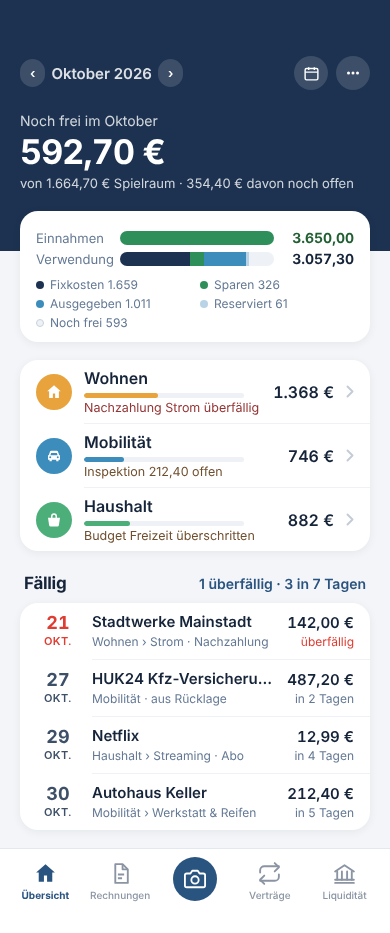
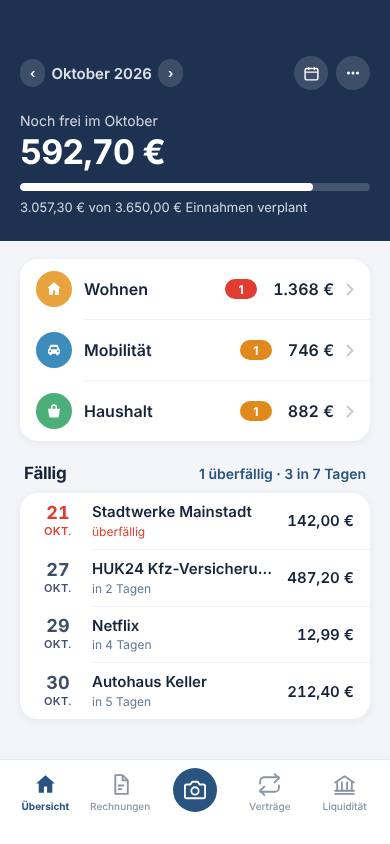
Konzept 2.0.0: Startseite minimal – eine Zahl, ein Balken, Bereiche mit Zähler-Punkt
Statustexte unter den Bereichen durch Zähler ersetzt (rot = überfällig, bernstein = offen/überschritten),
Balkenpaar und Legende durch einen Balken verplant/frei, Fällig-Zeilen ohne Kategorie-Untertitel.

Claude-Session: https://claude.ai/code/session_0112K5J9EfnvdznECFdoQGko

diff --git a/docs/konzept-2.0.0/design/Main.dc.html b/docs/konzept-2.0.0/design/Main.dc.html
@@ -42,6 +42,7 @@ body{margin:0}
 .lg i{width:8px;height:8px;border-radius:4px;flex:none}
 .sh{height:5px;border-radius:3px;background:#EEF1F5;overflow:hidden;margin-top:5px;max-width:160px}
 .sh i{display:block;height:5px;border-radius:3px}
+.bdg{min-width:20px;height:20px;padding:0 6px;border-radius:10px;color:#FFFFFF;font-size:12px;font-weight:700;display:inline-flex;align-items:center;justify-content:center;flex:none;margin-right:4px}
 .row.dr{padding:10px 16px}
 .row.dr .vcol{max-width:88px}
 .row.dr:last-of-type+.sep{display:none}
@@ -129,7 +130,7 @@ a{color:#2A5480}
 </helmet>
 <div class="root">
 <div class="scroll">
-  <div class="hdr" style="padding: 56px 20px 60px">
+  <div class="hdr" style="padding: 56px 20px 26px">
     <div style="display: flex; align-items: center; justify-content: space-between">
       <div style="display: flex; gap: 6px; align-items: center">
         <button class="chip" style="height: 28px; padding: 0 10px" onClick="{{prevMonth}}" aria-label="Vormonat">‹</button>
@@ -143,30 +144,19 @@ a{color:#2A5480}
     </div>
     <p style="margin: 22px 0 0; font-size: 14px; opacity: .8">{{sparLabel}}</p>
     <p class="big" style="margin-top: 6px">{{spar}} €</p>
-    <p class="sub">{{sparSub}}</p>
-  </div>
-
-  <div style="padding: 0 20px; margin-top: -40px">
-    <a href="Monatsrechnung.dc.html" class="card" style="display: block; padding: 14px 16px 12px; text-decoration: none; color: inherit">
-      <div class="mb"><p class="ml">Einnahmen</p><div class="mt"><i style="width: 100%; background: #2F8F5B"></i></div><p class="mv" style="color: #215F33">{{k.ein}}</p></div>
-      <div class="mb"><p class="ml">Verwendung</p><div class="mt"><i style="{{bar.fix}}"></i><i style="{{bar.res}}"></i><i style="{{bar.aus}}"></i><i style="{{bar.bud}}"></i></div><p class="mv">{{k.out}}</p></div>
-      <div class="lg">
-        <span><i style="background: #1C3250"></i>Fixkosten {{k.fix}}</span>
-        <span><i style="background: #2F8F5B"></i>Sparen {{k.res}}</span>
-        <span><i style="background: #3C8DBC"></i>Ausgegeben {{k.aus}}</span>
-        <span><i style="background: #B9D3E6"></i>Reserviert {{k.bud}}</span>
-        <span><i style="background: #EEF1F5; border: 1px solid #C9D3DF; box-sizing: border-box"></i>Noch frei {{k.spar}}</span>
-      </div>
+    <a href="Monatsrechnung.dc.html" style="display: block; text-decoration: none; color: inherit; margin-top: 14px">
+      <div style="height: 8px; border-radius: 4px; background: rgba(255,255,255,.18); overflow: hidden"><i style="{{usedSt}}"></i></div>
+      <p class="sub" style="margin-top: 8px">{{sparSub}}</p>
     </a>
   </div>
 
   <div style="padding: 18px 20px 0 20px">
     <div class="card">
-      <a class="row" href="Wohnen.dc.html" style="min-height: 60px; padding: 8px 16px"><span class="c" style="background: #E8A33D; width: 36px; height: 36px; border-radius: 18px"><svg aria-hidden="true" width="18" height="18" viewBox="0 0 24 24" fill="currentColor"><path d="M12 3l9 8h-2.5v9h-5v-6h-3v6h-5v-9H3z"/></svg></span><div class="mid"><p class="n" style="font-size: 16px">Wohnen</p><div class="sh"><i style="{{a.wb}}"></i></div><sc-if value="{{a.ws}}" hint-placeholder-val="{{false}}"><p class="s" style="font-size: 12.5px; color: #943333">{{a.ws}}</p></sc-if></div><p class="v" style="font-size: 16px">{{a.w}} €</p><svg class="chev" aria-hidden="true" viewBox="0 0 8 13" fill="none" stroke="#C4CCD6" stroke-width="2" stroke-linecap="round" stroke-linejoin="round"><path d="M1.5 1.5l5 5-5 5"/></svg></a>
+      <a class="row" href="Wohnen.dc.html" style="min-height: 60px; padding: 8px 16px"><span class="c" style="background: #E8A33D; width: 36px; height: 36px; border-radius: 18px"><svg aria-hidden="true" width="18" height="18" viewBox="0 0 24 24" fill="currentColor"><path d="M12 3l9 8h-2.5v9h-5v-6h-3v6h-5v-9H3z"/></svg></span><div class="mid"><p class="n" style="font-size: 16px">Wohnen</p></div><sc-if value="{{a.wn}}" hint-placeholder-val="{{false}}"><span class="bdg" style="{{a.wbs}}">{{a.wn}}</span></sc-if><p class="v" style="font-size: 16px">{{a.w}} €</p><svg class="chev" aria-hidden="true" viewBox="0 0 8 13" fill="none" stroke="#C4CCD6" stroke-width="2" stroke-linecap="round" stroke-linejoin="round"><path d="M1.5 1.5l5 5-5 5"/></svg></a>
       <div class="sep" style="margin-left: 64px"></div>
-      <a class="row" href="Akte.dc.html" style="min-height: 60px; padding: 8px 16px"><span class="c" style="background: #3C8DBC; width: 36px; height: 36px; border-radius: 18px"><svg aria-hidden="true" width="18" height="18" viewBox="0 0 24 24" fill="currentColor"><path d="M5 11l1.5-4.5A2 2 0 0 1 8.4 5h7.2a2 2 0 0 1 1.9 1.5L19 11h1v6h-2v2h-3v-2H9v2H6v-2H4v-6zm2.2 0h9.6l-1-3H8.2zM7 15a1.3 1.3 0 1 0 0-2.6A1.3 1.3 0 0 0 7 15zm10 0a1.3 1.3 0 1 0 0-2.6 1.3 1.3 0 0 0 0 2.6z"/></svg></span><div class="mid"><p class="n" style="font-size: 16px">Mobilität</p><div class="sh"><i style="{{a.mb}}"></i></div><sc-if value="{{a.ms}}" hint-placeholder-val="{{false}}"><p class="s" style="font-size: 12.5px; color: #704F2E">{{a.ms}}</p></sc-if></div><p class="v" style="font-size: 16px">{{a.mo}} €</p><svg class="chev" aria-hidden="true" viewBox="0 0 8 13" fill="none" stroke="#C4CCD6" stroke-width="2" stroke-linecap="round" stroke-linejoin="round"><path d="M1.5 1.5l5 5-5 5"/></svg></a>
+      <a class="row" href="Akte.dc.html" style="min-height: 60px; padding: 8px 16px"><span class="c" style="background: #3C8DBC; width: 36px; height: 36px; border-radius: 18px"><svg aria-hidden="true" width="18" height="18" viewBox="0 0 24 24" fill="currentColor"><path d="M5 11l1.5-4.5A2 2 0 0 1 8.4 5h7.2a2 2 0 0 1 1.9 1.5L19 11h1v6h-2v2h-3v-2H9v2H6v-2H4v-6zm2.2 0h9.6l-1-3H8.2zM7 15a1.3 1.3 0 1 0 0-2.6A1.3 1.3 0 0 0 7 15zm10 0a1.3 1.3 0 1 0 0-2.6 1.3 1.3 0 0 0 0 2.6z"/></svg></span><div class="mid"><p class="n" style="font-size: 16px">Mobilität</p></div><sc-if value="{{a.mn}}" hint-placeholder-val="{{false}}"><span class="bdg" style="{{a.mbs}}">{{a.mn}}</span></sc-if><p class="v" style="font-size: 16px">{{a.mo}} €</p><svg class="chev" aria-hidden="true" viewBox="0 0 8 13" fill="none" stroke="#C4CCD6" stroke-width="2" stroke-linecap="round" stroke-linejoin="round"><path d="M1.5 1.5l5 5-5 5"/></svg></a>
       <div class="sep" style="margin-left: 64px"></div>
-      <a class="row" href="Haushalt.dc.html" style="min-height: 60px; padding: 8px 16px"><span class="c" style="background: #4CAF7A; width: 36px; height: 36px; border-radius: 18px"><svg aria-hidden="true" width="18" height="18" viewBox="0 0 24 24" fill="currentColor"><path d="M4 9h16l-1.5 10a2 2 0 0 1-2 1.7h-9A2 2 0 0 1 5.5 19zM8 9V7a4 4 0 0 1 8 0v2h-2V7a2 2 0 0 0-4 0v2z"/></svg></span><div class="mid"><p class="n" style="font-size: 16px">Haushalt</p><div class="sh"><i style="{{a.hb}}"></i></div><sc-if value="{{a.hs}}" hint-placeholder-val="{{false}}"><p class="s" style="font-size: 12.5px; color: #704F2E">{{a.hs}}</p></sc-if></div><p class="v" style="font-size: 16px">{{a.h}} €</p><svg class="chev" aria-hidden="true" viewBox="0 0 8 13" fill="none" stroke="#C4CCD6" stroke-width="2" stroke-linecap="round" stroke-linejoin="round"><path d="M1.5 1.5l5 5-5 5"/></svg></a>
+      <a class="row" href="Haushalt.dc.html" style="min-height: 60px; padding: 8px 16px"><span class="c" style="background: #4CAF7A; width: 36px; height: 36px; border-radius: 18px"><svg aria-hidden="true" width="18" height="18" viewBox="0 0 24 24" fill="currentColor"><path d="M4 9h16l-1.5 10a2 2 0 0 1-2 1.7h-9A2 2 0 0 1 5.5 19zM8 9V7a4 4 0 0 1 8 0v2h-2V7a2 2 0 0 0-4 0v2z"/></svg></span><div class="mid"><p class="n" style="font-size: 16px">Haushalt</p></div><sc-if value="{{a.hn}}" hint-placeholder-val="{{false}}"><span class="bdg" style="{{a.hbs}}">{{a.hn}}</span></sc-if><p class="v" style="font-size: 16px">{{a.h}} €</p><svg class="chev" aria-hidden="true" viewBox="0 0 8 13" fill="none" stroke="#C4CCD6" stroke-width="2" stroke-linecap="round" stroke-linejoin="round"><path d="M1.5 1.5l5 5-5 5"/></svg></a>
     </div>
   </div>
 
@@ -177,7 +167,7 @@ a{color:#2A5480}
     </div>
     <div class="card">
       <sc-for list="{{due}}" as="d" hint-placeholder-count="3">
-        <a class="row dr" href="{{d.href}}"><div class="dd" style="{{d.dst}}"><p class="d1">{{d.day}}</p><p class="d2">{{d.mon}}</p></div><div class="mid"><p class="n">{{d.name}}</p><p class="s">{{d.sub2}}</p></div><div class="vcol"><p class="v">{{d.amount}} €</p><p class="s" style="{{d.urgst}}">{{d.urg}}</p></div></a>
+        <a class="row dr" href="{{d.href}}"><div class="dd" style="{{d.dst}}"><p class="d1">{{d.day}}</p><p class="d2">{{d.mon}}</p></div><div class="mid"><p class="n">{{d.name}}</p><p class="s" style="{{d.urgst}}">{{d.urg}}</p></div><p class="v">{{d.amount}} €</p></a>
         <div class="sep" style="margin-left: 72px"></div>
       </sc-for>
       <sc-if value="{{noDue}}" hint-placeholder-val="{{false}}"><div class="row"><p class="s">Nichts offen – der Monat ist abgeschlossen.</p></div></sc-if>
@@ -228,14 +218,13 @@ class Component extends DCLogic {
     var months = ['Oktober 2026', 'September 2026', 'August 2026'];
     // Beispielmonat Oktober; Vormonate als Vergleich (abgeschlossen: keine offenen Posten)
     var D = [
-      { ein: 3650, fix: 1659.20, bez: 656.20, off: 354.40, bud: 61.40, res: 326.10, w: 1368.18, mo: 746.19, h: 881.53, ws: 'Nachzahlung Strom überfällig', ms: 'Inspektion 212,40 offen', hs: 'Budget Freizeit überschritten' },
-      { ein: 3650, fix: 1659.20, bez: 824.70, off: 0, bud: 0, res: 326.10, w: 1300.00, mo: 640.00, h: 870.00, ws: 'abgeschlossen', ms: 'abgeschlossen', hs: 'abgeschlossen' },
-      { ein: 3701.30, fix: 1659.20, bez: 754.70, off: 0, bud: 0, res: 326.10, w: 1290.00, mo: 590.00, h: 860.00, ws: 'Rückerstattung Strom 51,30', ms: 'abgeschlossen', hs: 'abgeschlossen' }
+      { ein: 3650, fix: 1659.20, bez: 656.20, off: 354.40, bud: 61.40, res: 326.10, w: 1368.18, mo: 746.19, h: 881.53, wn: 1, wred: true, mn: 1, mred: false, hn: 1, hred: false },
+      { ein: 3650, fix: 1659.20, bez: 824.70, off: 0, bud: 0, res: 326.10, w: 1300.00, mo: 640.00, h: 870.00, wn: 0, mn: 0, hn: 0 },
+      { ein: 3701.30, fix: 1659.20, bez: 754.70, off: 0, bud: 0, res: 326.10, w: 1290.00, mo: 590.00, h: 860.00, wn: 0, mn: 0, hn: 0 }
     ];
     var d = D[m], aus = d.bez + d.off, out = d.fix + aus + d.bud + d.res, spar = d.ein - out;
     var pct = function (v) { return Math.round(v / d.ein * 1000) / 10; };
-    var sumA = d.w + d.mo + d.h, share = function (v, c) { return 'width: ' + Math.round(v / sumA * 100) + '%; background: ' + c; };
-    var warn = function (t) { return t === 'abgeschlossen' ? '' : t; };
+    var bdg = function (red) { return red ? 'background: #E03C31' : 'background: #E08A1E'; };
     var dueAll = [
       { name: 'Stadtwerke Mainstadt', amount: eur(142), day: '21', mon: 'Okt.', dst: 'color: #E03C31', sub2: 'Wohnen › Strom · Nachzahlung', urg: 'überfällig', urgst: 'color: #E03C31', href: 'Rechnung.dc.html' },
       { name: 'HUK24 Kfz-Versicherung', amount: eur(487.20), day: '27', mon: 'Okt.', dst: '', sub2: 'Mobilität · aus Rücklage', urg: 'in 2 Tagen', urgst: '', href: 'Vertrag.dc.html' },
@@ -249,10 +238,10 @@ class Component extends DCLogic {
       prevMonth: function () { if (m < months.length - 1) self.setState({ m: m + 1 }); else self.say('Ältere Monate: Mehr › Auswertung'); },
       nextMonth: function () { if (m > 0) self.setState({ m: m - 1 }); else self.say('Oktober ist der laufende Monat'); },
       spar: eur(spar), sparLabel: (m === 0 ? 'Noch frei im ' : 'Überschuss im ') + months[m].split(' ')[0],
-      sparSub: m === 0 ? 'von ' + eur(d.ein - d.fix - d.res) + ' € Spielraum · ' + eur(d.off) + ' € davon noch offen' : 'Monat abgeschlossen · Gespart ' + eur(d.res + spar) + ' € inkl. Rücklagen',
+      sparSub: eur(out) + ' € von ' + eur(d.ein) + ' € Einnahmen verplant', usedSt: 'display: block; height: 8px; width: ' + pct(out) + '%; background: #FFFFFF; border-radius: 4px',
       k: { ein: eur(d.ein), out: eur(out), fix: eur(d.fix, 0), aus: eur(aus, 0), bud: eur(d.bud, 0), res: eur(d.res, 0), spar: eur(spar, 0), offen: eur(d.off) },
       bar: { fix: 'width: ' + pct(d.fix) + '%; background: #1C3250', aus: 'width: ' + pct(aus) + '%; background: #3C8DBC', bud: 'width: ' + pct(d.bud) + '%; background: #B9D3E6', res: 'width: ' + pct(d.res) + '%; background: #2F8F5B' },
-      a: { ws: warn(d.ws), ms: warn(d.ms), hs: warn(d.hs), w: eur(d.w, 0), mo: eur(d.mo, 0), h: eur(d.h, 0), wb: share(d.w, '#E8A33D'), mb: share(d.mo, '#3C8DBC'), hb: share(d.h, '#4CAF7A') },
+      a: { w: eur(d.w, 0), mo: eur(d.mo, 0), h: eur(d.h, 0), wn: d.wn || 0, mn: d.mn || 0, hn: d.hn || 0, wbs: bdg(d.wred), mbs: bdg(d.mred), hbs: bdg(d.hred) },
       sumAreas: eur(d.w + d.mo + d.h),
       due: due, noDue: due.length === 0,
       dueLine: m === 0 ? '1 überfällig · 3 in 7 Tagen' : 'nichts offen'

diff --git a/docs/konzept-2.0.0/design/Akte.dc.html b/docs/konzept-2.0.0/design/Akte.dc.html
@@ -42,6 +42,7 @@ body{margin:0}
 .lg i{width:8px;height:8px;border-radius:4px;flex:none}
 .sh{height:5px;border-radius:3px;background:#EEF1F5;overflow:hidden;margin-top:5px;max-width:160px}
 .sh i{display:block;height:5px;border-radius:3px}
+.bdg{min-width:20px;height:20px;padding:0 6px;border-radius:10px;color:#FFFFFF;font-size:12px;font-weight:700;display:inline-flex;align-items:center;justify-content:center;flex:none;margin-right:4px}
 .row.dr{padding:10px 16px}
 .row.dr .vcol{max-width:88px}
 .row.dr:last-of-type+.sep{display:none}

diff --git a/docs/konzept-2.0.0/design/Auswertung.dc.html b/docs/konzept-2.0.0/design/Auswertung.dc.html
@@ -42,6 +42,7 @@ body{margin:0}
 .lg i{width:8px;height:8px;border-radius:4px;flex:none}
 .sh{height:5px;border-radius:3px;background:#EEF1F5;overflow:hidden;margin-top:5px;max-width:160px}
 .sh i{display:block;height:5px;border-radius:3px}
+.bdg{min-width:20px;height:20px;padding:0 6px;border-radius:10px;color:#FFFFFF;font-size:12px;font-weight:700;display:inline-flex;align-items:center;justify-content:center;flex:none;margin-right:4px}
 .row.dr{padding:10px 16px}
 .row.dr .vcol{max-width:88px}
 .row.dr:last-of-type+.sep{display:none}

diff --git a/docs/konzept-2.0.0/design/Budgets.dc.html b/docs/konzept-2.0.0/design/Budgets.dc.html
@@ -42,6 +42,7 @@ body{margin:0}
 .lg i{width:8px;height:8px;border-radius:4px;flex:none}
 .sh{height:5px;border-radius:3px;background:#EEF1F5;overflow:hidden;margin-top:5px;max-width:160px}
 .sh i{display:block;height:5px;border-radius:3px}
+.bdg{min-width:20px;height:20px;padding:0 6px;border-radius:10px;color:#FFFFFF;font-size:12px;font-weight:700;display:inline-flex;align-items:center;justify-content:center;flex:none;margin-right:4px}
 .row.dr{padding:10px 16px}
 .row.dr .vcol{max-width:88px}
 .row.dr:last-of-type+.sep{display:none}

diff --git a/docs/konzept-2.0.0/design/Dokumente.dc.html b/docs/konzept-2.0.0/design/Dokumente.dc.html
@@ -42,6 +42,7 @@ body{margin:0}
 .lg i{width:8px;height:8px;border-radius:4px;flex:none}
 .sh{height:5px;border-radius:3px;background:#EEF1F5;overflow:hidden;margin-top:5px;max-width:160px}
 .sh i{display:block;height:5px;border-radius:3px}
+.bdg{min-width:20px;height:20px;padding:0 6px;border-radius:10px;color:#FFFFFF;font-size:12px;font-weight:700;display:inline-flex;align-items:center;justify-content:center;flex:none;margin-right:4px}
 .row.dr{padding:10px 16px}
 .row.dr .vcol{max-width:88px}
 .row.dr:last-of-type+.sep{display:none}

diff --git a/docs/konzept-2.0.0/design/Einnahmen.dc.html b/docs/konzept-2.0.0/design/Einnahmen.dc.html
@@ -42,6 +42,7 @@ body{margin:0}
 .lg i{width:8px;height:8px;border-radius:4px;flex:none}
 .sh{height:5px;border-radius:3px;background:#EEF1F5;overflow:hidden;margin-top:5px;max-width:160px}
 .sh i{display:block;height:5px;border-radius:3px}
+.bdg{min-width:20px;height:20px;padding:0 6px;border-radius:10px;color:#FFFFFF;font-size:12px;font-weight:700;display:inline-flex;align-items:center;justify-content:center;flex:none;margin-right:4px}
 .row.dr{padding:10px 16px}
 .row.dr .vcol{max-width:88px}
 .row.dr:last-of-type+.sep{display:none}

diff --git a/docs/konzept-2.0.0/design/Einstellungen.dc.html b/docs/konzept-2.0.0/design/Einstellungen.dc.html
@@ -42,6 +42,7 @@ body{margin:0}
 .lg i{width:8px;height:8px;border-radius:4px;flex:none}
 .sh{height:5px;border-radius:3px;background:#EEF1F5;overflow:hidden;margin-top:5px;max-width:160px}
 .sh i{display:block;height:5px;border-radius:3px}
+.bdg{min-width:20px;height:20px;padding:0 6px;border-radius:10px;color:#FFFFFF;font-size:12px;font-weight:700;display:inline-flex;align-items:center;justify-content:center;flex:none;margin-right:4px}
 .row.dr{padding:10px 16px}
 .row.dr .vcol{max-width:88px}
 .row.dr:last-of-type+.sep{display:none}

diff --git a/docs/konzept-2.0.0/design/Erfassen.dc.html b/docs/konzept-2.0.0/design/Erfassen.dc.html
@@ -42,6 +42,7 @@ body{margin:0}
 .lg i{width:8px;height:8px;border-radius:4px;flex:none}
 .sh{height:5px;border-radius:3px;background:#EEF1F5;overflow:hidden;margin-top:5px;max-width:160px}
 .sh i{display:block;height:5px;border-radius:3px}
+.bdg{min-width:20px;height:20px;padding:0 6px;border-radius:10px;color:#FFFFFF;font-size:12px;font-weight:700;display:inline-flex;align-items:center;justify-content:center;flex:none;margin-right:4px}
 .row.dr{padding:10px 16px}
 .row.dr .vcol{max-width:88px}
 .row.dr:last-of-type+.sep{display:none}

diff --git a/docs/konzept-2.0.0/design/Haushalt.dc.html b/docs/konzept-2.0.0/design/Haushalt.dc.html
@@ -42,6 +42,7 @@ body{margin:0}
 .lg i{width:8px;height:8px;border-radius:4px;flex:none}
 .sh{height:5px;border-radius:3px;background:#EEF1F5;overflow:hidden;margin-top:5px;max-width:160px}
 .sh i{display:block;height:5px;border-radius:3px}
+.bdg{min-width:20px;height:20px;padding:0 6px;border-radius:10px;color:#FFFFFF;font-size:12px;font-weight:700;display:inline-flex;align-items:center;justify-content:center;flex:none;margin-right:4px}
 .row.dr{padding:10px 16px}
 .row.dr .vcol{max-width:88px}
 .row.dr:last-of-type+.sep{display:none}

diff --git a/docs/konzept-2.0.0/design/Kalender.dc.html b/docs/konzept-2.0.0/design/Kalender.dc.html
@@ -42,6 +42,7 @@ body{margin:0}
 .lg i{width:8px;height:8px;border-radius:4px;flex:none}
 .sh{height:5px;border-radius:3px;background:#EEF1F5;overflow:hidden;margin-top:5px;max-width:160px}
 .sh i{display:block;height:5px;border-radius:3px}
+.bdg{min-width:20px;height:20px;padding:0 6px;border-radius:10px;color:#FFFFFF;font-size:12px;font-weight:700;display:inline-flex;align-items:center;justify-content:center;flex:none;margin-right:4px}
 .row.dr{padding:10px 16px}
 .row.dr .vcol{max-width:88px}
 .row.dr:last-of-type+.sep{display:none}

diff --git a/docs/konzept-2.0.0/design/Kasse.dc.html b/docs/konzept-2.0.0/design/Kasse.dc.html
@@ -42,6 +42,7 @@ body{margin:0}
 .lg i{width:8px;height:8px;border-radius:4px;flex:none}
 .sh{height:5px;border-radius:3px;background:#EEF1F5;overflow:hidden;margin-top:5px;max-width:160px}
 .sh i{display:block;height:5px;border-radius:3px}
+.bdg{min-width:20px;height:20px;padding:0 6px;border-radius:10px;color:#FFFFFF;font-size:12px;font-weight:700;display:inline-flex;align-items:center;justify-content:center;flex:none;margin-right:4px}
 .row.dr{padding:10px 16px}
 .row.dr .vcol{max-width:88px}
 .row.dr:last-of-type+.sep{display:none}

diff --git a/docs/konzept-2.0.0/design/Kategorie.dc.html b/docs/konzept-2.0.0/design/Kategorie.dc.html
@@ -42,6 +42,7 @@ body{margin:0}
 .lg i{width:8px;height:8px;border-radius:4px;flex:none}
 .sh{height:5px;border-radius:3px;background:#EEF1F5;overflow:hidden;margin-top:5px;max-width:160px}
 .sh i{display:block;height:5px;border-radius:3px}
+.bdg{min-width:20px;height:20px;padding:0 6px;border-radius:10px;color:#FFFFFF;font-size:12px;font-weight:700;display:inline-flex;align-items:center;justify-content:center;flex:none;margin-right:4px}
 .row.dr{padding:10px 16px}
 .row.dr .vcol{max-width:88px}
 .row.dr:last-of-type+.sep{display:none}
